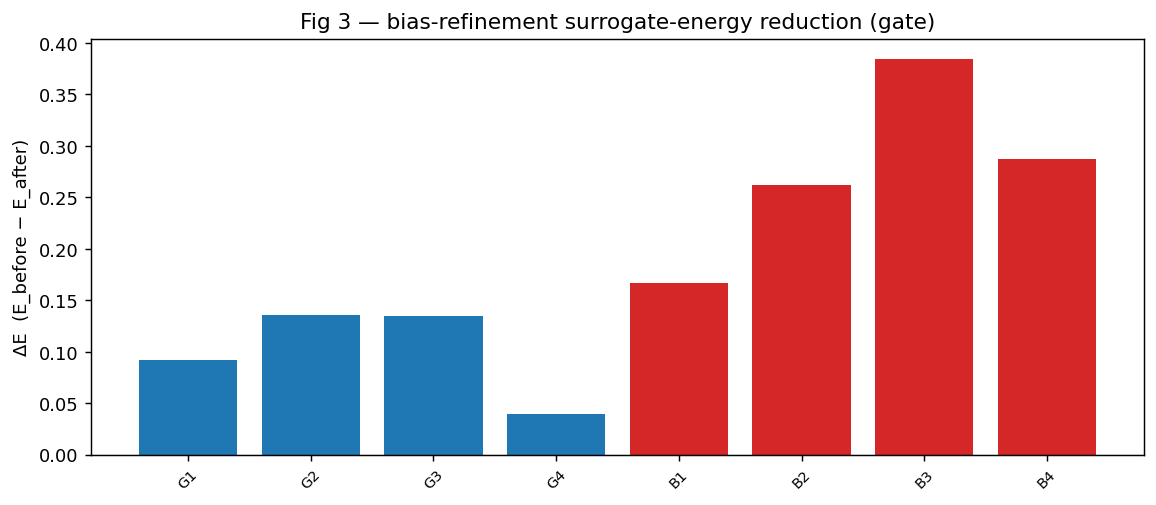
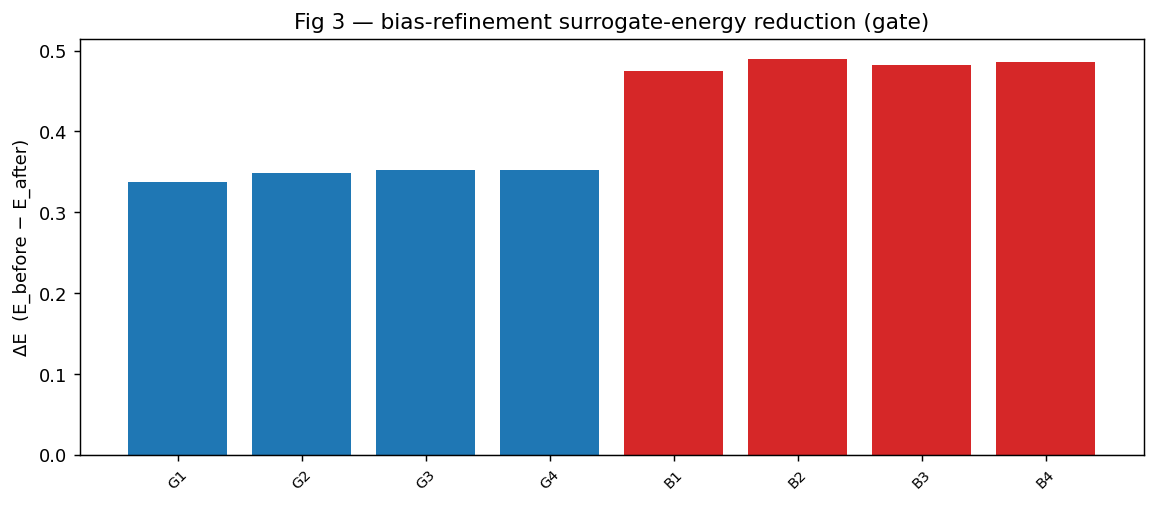
New bias, still not working

diff --git a/papers/EGAS/lib/photonic_circuits.py b/papers/EGAS/lib/photonic_circuits.py
@@ -70,31 +70,30 @@ def create_quantum_module(
     ps_r_factors = [r for gate, _, _, r in sequence if gate == "PS"]
 
     class BiasMLP(nn.Module):
-        """MLP whose initial output is identically zero."""
+        """Small MLP with a zero-initialised output head; output scaled by a fixed gain (=10)."""
 
         def __init__(
-            self,
-            n_in: int,
-            hidden: int = 32,
-            gain: float = 10.0,
+            self, n_in: int, output_size: int = 1, hidden: int = 32, gain: float = 10.0
         ):
             super().__init__()
-
-            self.net = nn.Sequential(
-                nn.Linear(n_in, hidden),
-                nn.Tanh(),
-                nn.Linear(hidden, hidden),
-                nn.Tanh(),
-                nn.Linear(hidden, 1),
-            )
-
-            # Zero-initialize the output layer
-            nn.init.zeros_(self.net[-1].weight)
-            nn.init.zeros_(self.net[-1].bias)
-
+            self.output_size = output_size
             self.gain = gain
+            if output_size <= 0:
+                self.net = None
+            else:
+                self.net = nn.Sequential(
+                    nn.Linear(n_in, hidden),
+                    nn.Tanh(),
+                    nn.Linear(hidden, hidden),
+                    nn.Tanh(),
+                    nn.Linear(hidden, output_size),
+                )
+                nn.init.zeros_(self.net[-1].weight)
+                nn.init.zeros_(self.net[-1].bias)
 
         def forward(self, X: torch.Tensor) -> torch.Tensor:
+            if self.output_size <= 0:
+                return torch.zeros(X.shape[0], 0, dtype=torch.float32, device=X.device)
             return self.gain * self.net(X.to(torch.float32))
 
     class QuantumModule(nn.Module):
@@ -111,9 +110,7 @@ def create_quantum_module(
                     computation_space=computation_space
                 ),
             )
-            self.bias = BiasMLP(
-                n_in=num_features,
-            )
+            self.bias = BiasMLP(n_in=num_features, output_size=len(input_parameters))
 
         def forward(self, x: torch.Tensor) -> torch.Tensor:
             if len(self.ps_data_indices) > 0:
@@ -123,11 +120,8 @@ def create_quantum_module(
                         "the sequence."
                     )
                 theta = x[..., self.ps_data_indices] * self.ps_r_factors
-                # Single bias per sample
+                # Biases
                 phi = self.bias(x)
-
-                # Repeat the same bias for every phase shifter
-                phi = phi.expand(-1, theta.shape[-1])
 
                 layer_input = torch.cat([theta, phi], dim=-1)
                 return self.layer(layer_input)
@@ -135,5 +129,17 @@ def create_quantum_module(
                 # No input parameters needed, create empty input with batch size
                 layer_input = torch.zeros(x.shape[0], 0, dtype=x.dtype, device=x.device)
                 return self.layer()
+
+        def reset_bias(self, hidden: int | None = None, gain: float | None = None):
+            if hidden is None:
+                hidden = 32
+            if gain is None:
+                gain = 10.0
+            self.bias = BiasMLP(
+                n_in=num_features,
+                output_size=len(input_parameters),
+                hidden=hidden,
+                gain=gain,
+            )
 
     return QuantumModule()

diff --git a/papers/EGAS/lib/runner.py b/papers/EGAS/lib/runner.py
@@ -332,6 +332,78 @@ def _run_photonic_eval(cfg, run_dir, logger):
             "B": [b["E_before"] - b["E_after"] for b in B_refined],
         },
     }
+    # Save summary metrics for the best fixed and trained photonic candidates so downstream
+    # analysis can use the correct model and results.
+    photonic_fixed = None
+    photonic_trained = None
+    if len(G) + len(B) > 0:
+        raw_accs = np.vstack([accG, accB]) if len(accB) else accG
+        raw_idx = best_rep(raw_accs)
+        if raw_idx < len(G):
+            raw_group = "G"
+            raw_local_idx = raw_idx
+            raw_model = G[raw_idx]
+        else:
+            raw_group = "B"
+            raw_local_idx = raw_idx - len(G)
+            raw_model = B[raw_local_idx]
+        photonic_fixed = {
+            "group": raw_group,
+            "group_idx": raw_local_idx,
+            "mean_acc": float(raw_accs[raw_idx].mean()),
+            "std_acc": float(raw_accs[raw_idx].std()),
+            "wtl_vs_linear": wtl(raw_accs[raw_idx]),
+            "seq": raw_model["seq"],
+        }
+        torch.save(
+            {
+                "state_dict": raw_model["encoder"].state_dict(),
+                "seq": raw_model["seq"],
+                "num_features": X.shape[-1],
+                "n_modes": n_modes,
+                "num_photons": n_photons,
+                "computation_space": str(computation_space),
+            },
+            run_dir / "photonic_best_fixed.pth",
+        )
+        metrics["photonic_fixed"] = photonic_fixed
+        metrics["photonic_fixed_model_path"] = str(run_dir / "photonic_best_fixed.pth")
+
+    if len(G_refined) + len(B_refined) > 0:
+        refined_accs = np.vstack([accGb, accBb]) if len(accBb) else accGb
+        refined_idx = best_rep(refined_accs)
+        if refined_idx < len(G_refined):
+            refined_group = "G_bias"
+            refined_local_idx = refined_idx
+            refined_model = G_refined[refined_idx]
+        else:
+            refined_group = "B_bias"
+            refined_local_idx = refined_idx - len(G_refined)
+            refined_model = B_refined[refined_local_idx]
+        photonic_trained = {
+            "group": refined_group,
+            "group_idx": refined_local_idx,
+            "mean_acc": float(refined_accs[refined_idx].mean()),
+            "std_acc": float(refined_accs[refined_idx].std()),
+            "wtl_vs_linear": wtl(refined_accs[refined_idx]),
+            "seq": refined_model["seq"],
+        }
+        torch.save(
+            {
+                "state_dict": refined_model["encoder"].state_dict(),
+                "seq": refined_model["seq"],
+                "num_features": X.shape[-1],
+                "n_modes": n_modes,
+                "num_photons": n_photons,
+                "computation_space": str(computation_space),
+            },
+            run_dir / "photonic_best_trained.pth",
+        )
+        metrics["photonic_trained"] = photonic_trained
+        metrics["photonic_trained_model_path"] = str(
+            run_dir / "photonic_best_trained.pth"
+        )
+
     _save_json(run_dir / "metrics.json", metrics)
     np.savez(
         run_dir / "photonic_acc.npz",

diff --git a/papers/EGAS/run_all_experiments.py b/papers/EGAS/run_all_experiments.py
@@ -87,21 +87,32 @@ def main():
     print_header("EGAS Reproduction - All Experiments")
 
     step = 1
-    total_steps = (
-        10 if not args.quick else 1
-    )  # +1 for WDGV1 gate EGAS, +1 for WDGV1 photonic
+    gate_datasets = [
+        ("PW", "Phishing"),
+        ("WDGV1", "Waveform DB (multiclass)"),
+        ("WQ", "Wine Quality"),
+        ("MGT", "MAGIC Gamma Telescope"),
+    ]
+    photonic_datasets = [
+        ("PW", "Phishing"),
+        ("WQ", "Wine Quality"),
+        ("MGT", "MAGIC Gamma Telescope"),
+        ("WDGV1", "Waveform DB (multiclass)"),
+    ]
 
-    # Adjust total based on flags
-    if args.skip_tests:
-        total_steps -= 1
-    if args.only_photonic:
-        total_steps = 3  # tests + 2 photonic (MGT + WDGV1)
-        if args.skip_tests:
-            total_steps = 2
-    if args.only_gate:
-        total_steps = 8  # wasserstein + fig1 + 4 gate + tests (no photonic)
-        if args.skip_tests:
-            total_steps = 7
+    if args.quick:
+        total_steps = 1
+    elif args.only_photonic:
+        total_steps = len(photonic_datasets) + (0 if args.skip_tests else 1)
+    elif args.only_gate:
+        total_steps = len(gate_datasets) + 2 + (0 if args.skip_tests else 1)
+    else:
+        total_steps = (
+            len(gate_datasets)
+            + len(photonic_datasets)
+            + 2
+            + (0 if args.skip_tests else 1)
+        )
 
     # Run tests
     if not args.skip_tests and not args.only_photonic:
@@ -184,13 +195,7 @@ def main():
 
         # EGAS experiments (unless only photonic)
         if not args.only_photonic:
-            datasets = [
-                ("PW", "Phishing"),
-                ("WDGV1", "Waveform DB (multiclass)"),
-                ("WQ", "Wine Quality"),
-                ("MGT", "MAGIC Gamma Telescope"),
-            ]
-            for i, (shortname, fullname) in enumerate(datasets, 1):
+            for i, (shortname, fullname) in enumerate(gate_datasets, 1):
                 current_step = step + i - 1
                 print_step(
                     current_step,
@@ -211,7 +216,7 @@ def main():
                     cwd=str(repo_root),
                 ):
                     print_success(f"{fullname} results saved")
-            step += 4
+            step += len(gate_datasets)
 
     # Photonic experiments
     if not args.only_gate:

diff --git a/papers/EGAS/lib/bias.py b/papers/EGAS/lib/bias.py
@@ -21,21 +21,23 @@ from .statevec import fidelity_matrix
 class BiasMLP(nn.Module):
     """Small MLP with a zero-initialised output head; output scaled by a fixed gain (=10)."""
 
-    def __init__(self, n_in: int, hidden: int = 32, gain: float = 10.0):
+    def __init__(
+        self, n_in: int, output_size: int = 1, hidden: int = 32, gain: float = 10.0
+    ):
         super().__init__()
         self.net = nn.Sequential(
             nn.Linear(n_in, hidden),
             nn.Tanh(),
             nn.Linear(hidden, hidden),
             nn.Tanh(),
-            nn.Linear(hidden, 1),
+            nn.Linear(hidden, output_size),
         )
         nn.init.zeros_(self.net[-1].weight)
         nn.init.zeros_(self.net[-1].bias)
         self.gain = gain
 
     def forward(self, X: torch.Tensor) -> torch.Tensor:
-        return self.gain * self.net(X.to(torch.float64)).squeeze(-1)
+        return self.gain * self.net(X.to(torch.float64))
 
 
 def _bce_pair_loss(states, labels, eps=1e-3):
@@ -67,9 +69,19 @@ def refine_bias(
 ):
     """Train a bias MLP for a fixed circuit `seq`. Returns (bias_mlp, E_before, E_after)."""
     torch.manual_seed(seed)
+
+    output_size = 0
+    for gate, _, _, _ in seq:
+        if gate not in ["H", "I", "CNOT"]:
+            output_size += 1
+
     Xt = torch.as_tensor(X, dtype=torch.float64, device=device)
     yt = torch.as_tensor(y, dtype=torch.long, device=device)
-    bias = BiasMLP(n_qubits, hidden=hidden, gain=gain).double().to(device)
+    bias = (
+        BiasMLP(n_qubits, output_size=output_size, hidden=hidden, gain=gain)
+        .double()
+        .to(device)
+    )
     opt = torch.optim.RMSprop(bias.parameters(), lr=lr)
 
     with torch.no_grad():

diff --git a/papers/EGAS/utils/make_tables.py b/papers/EGAS/utils/make_tables.py
@@ -100,9 +100,19 @@ def main(paths):
         )
         print("|---|---:|---:|---:|---:|---:|")
         for m in sorted(phot, key=lambda z: z["w1"]):
+            fixed = m.get("photonic_fixed")
+            trained = m.get("photonic_trained")
+            if fixed is None:
+                fixed_mean = _best(m["G"])
+            else:
+                fixed_mean = fixed["mean_acc"]
+            if trained is None:
+                trained_mean = _best(m["G_bias"])
+            else:
+                trained_mean = trained["mean_acc"]
             print(
-                f"| {m['dataset']} | {m['w1']:.2f} | {m['photonic_fixed']['mean_acc']:.3f} | "
-                f"{m['photonic_trained']['mean_acc']:.3f} | {m['ZZ']['mean_acc']:.3f} | "
+                f"| {m['dataset']} | {m['w1']:.2f} | {fixed_mean:.3f} | "
+                f"{trained_mean:.3f} | {m['ZZ']['mean_acc']:.3f} | "
                 f"{m['classical_linear']['mean_acc']:.3f} |"
             )
         print()

diff --git a/papers/EGAS/lib/circuits.py b/papers/EGAS/lib/circuits.py
@@ -60,16 +60,19 @@ def embed_states(sequence, X: torch.Tensor, n_qubits: int, bias=None) -> torch.T
     device = X.device
     state = init_state(batch, n_qubits, device=device)
     b_off = bias(X) if bias is not None else None  # (B,) shared additive offset
+    bias_index = 0
     for gate, q, d, r in sequence:
         if gate in PARAM_1Q:
             angle = r * X[:, d]
             if b_off is not None:
-                angle = angle + b_off
+                angle = angle + b_off[:, bias_index]
+                bias_index += 1
             state = apply_gate(state, n_qubits, gate, (q,), angle)
         elif gate == "MultiRZ":
             angle = r * X[:, d]
             if b_off is not None:
-                angle = angle + b_off
+                angle = angle + b_off[:, bias_index]
+                bias_index += 1
             qn = (q + 1) % n_qubits
             state = apply_gate(state, n_qubits, gate, (q, qn), angle)
         elif gate == "CNOT":

diff --git a/papers/EGAS/lib/photonic_bias.py b/papers/EGAS/lib/photonic_bias.py
@@ -52,8 +52,8 @@ def refine_bias(
     lr=5e-4,
     grad_clip=2.0,
     l2_bias=1e-6,
-    hidden=None,
-    gain=None,
+    hidden=32,
+    gain=10.0,
     seed=0,
     device="cpu",
     avg_last=10,
@@ -74,7 +74,9 @@ def refine_bias(
         n_modes=n_modes,
         num_photons=num_photons,
         computation_space=computation_space,
-    ).to(device)
+    )
+    encoder.reset_bias(hidden=hidden, gain=gain)
+    encoder = encoder.to(device)
     trainable_parameters = [p for p in encoder.bias.parameters() if p.requires_grad]
     if len(trainable_parameters) == 0:
         with torch.no_grad():

diff --git a/papers/EGAS/README.md b/papers/EGAS/README.md
@@ -41,6 +41,7 @@ embedding family is limited by input-space geometry; small `W1` ⇒ embedding se
   12 candidates/iter; top-4 `G`/`B` groups; **8** train/test splits. Reason: cost governance
   (CPU-only); we still reduce compute by limiting to 4 datasets, single-seed runs, and lower
   reporting scope.
+- The bias refinement uses a single MLP instead of one per gate to improve trainability and efficiency.
 - **Both gate and photonic implementations use EGAS architecture search** (not fixed embeddings).
   Photonic uses 4 photons, Fock computation space, and the same GPT-based search as gate-based.
 - Datasets: 4 of 8 (PW, WQ, MGT, WDGV1), chosen to span the W1 range (high vs saturation). W1 (Table I)
